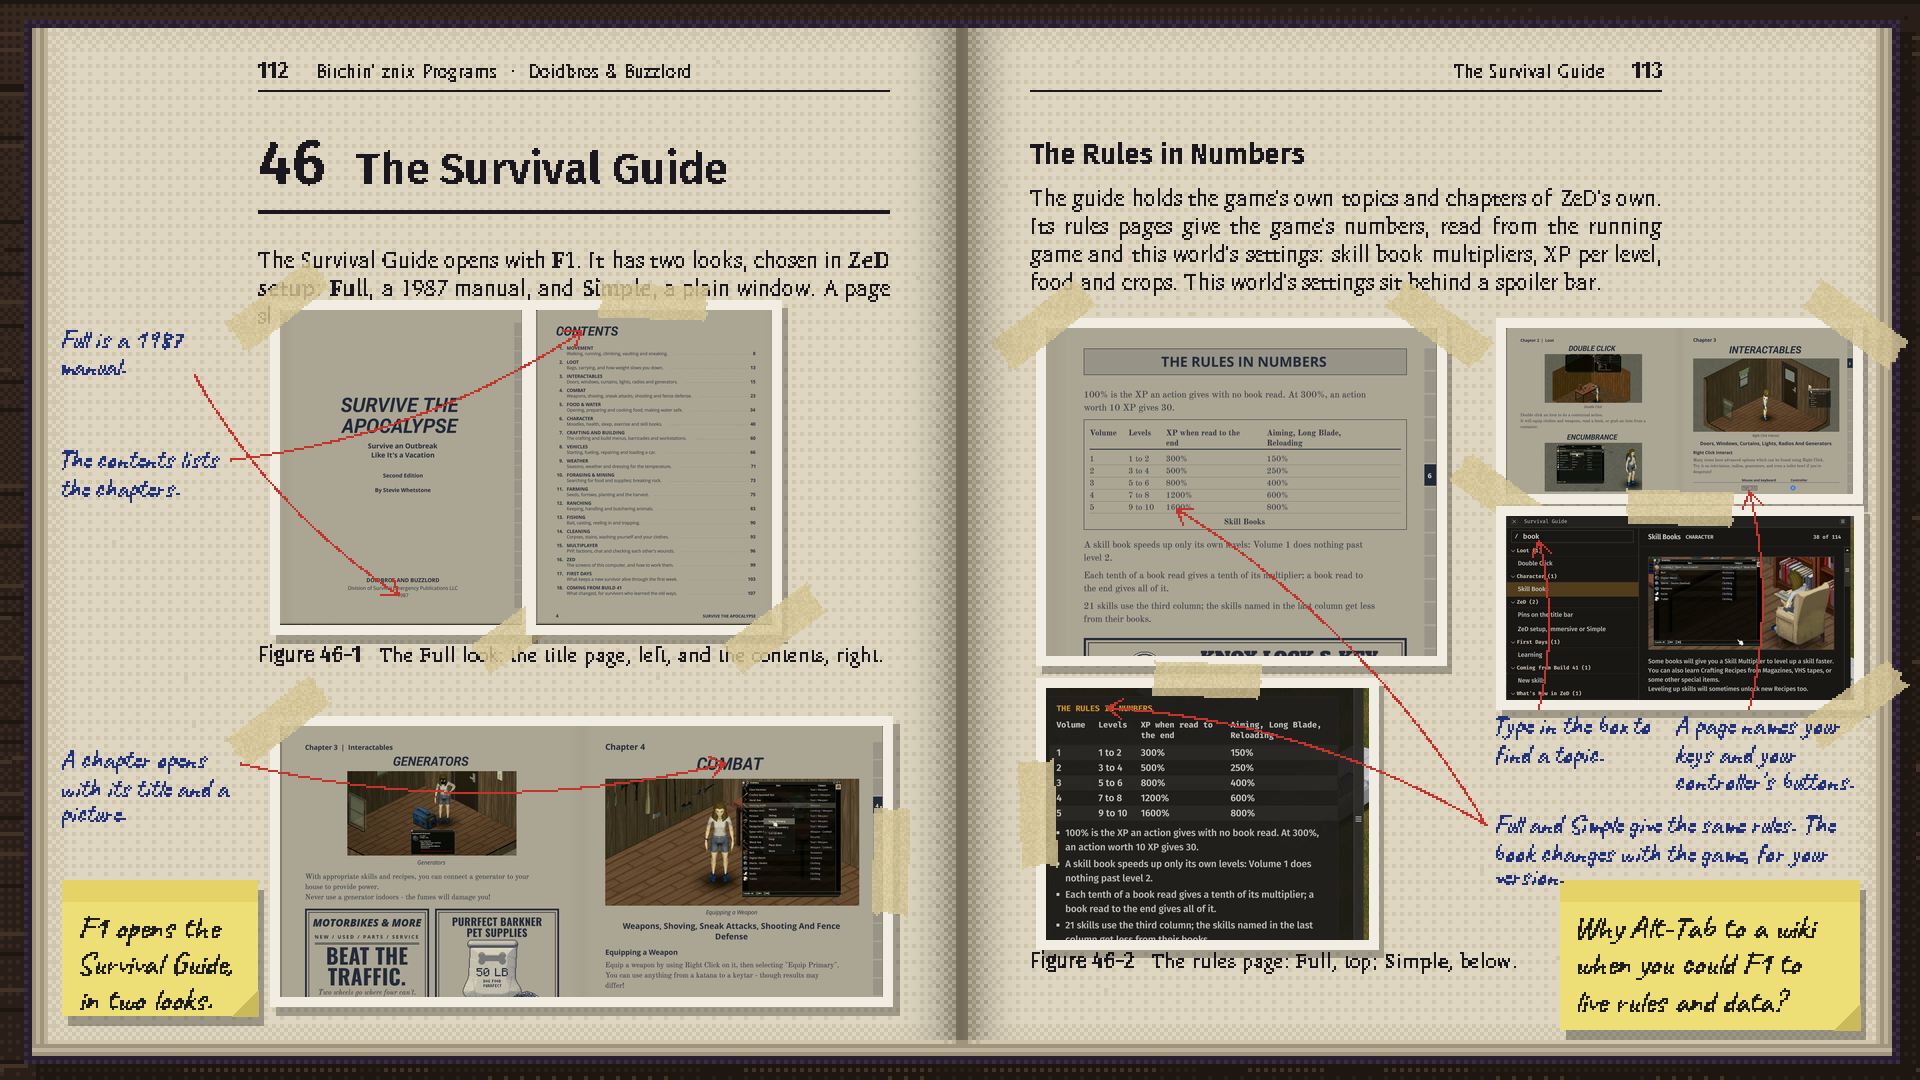
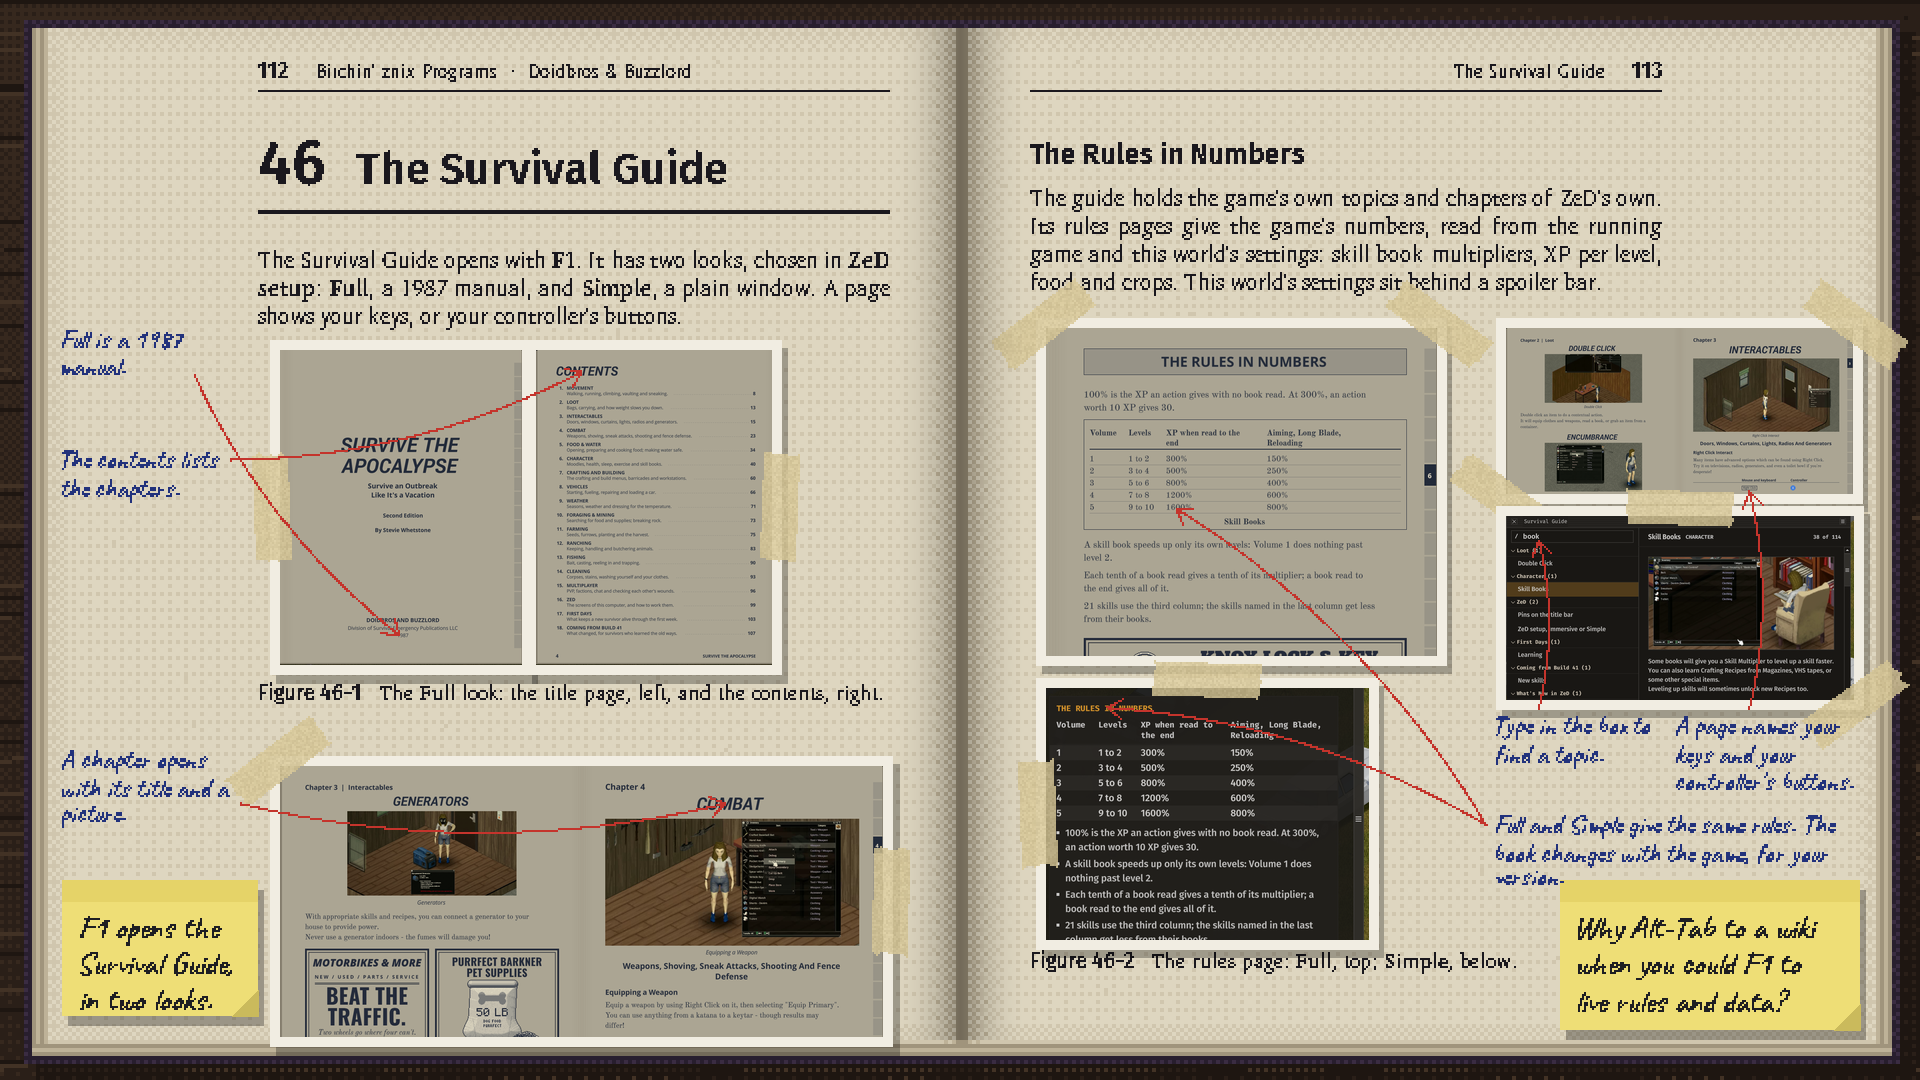
Gallery 46: the pictures moved off the opening paragraph and the tape off Figure 46-1's caption (director); punch list 128: the running head's middle dot

Changed region(s): [[0.125, 0.2444, 0.5, 0.9778], [0.125, 0.3667, 0.25, 0.5194], [0.375, 0.4278, 0.4375, 0.5194]]

diff --git a/ZeDUI/PUNCH_LIST.md b/ZeDUI/PUNCH_LIST.md
@@ -3130,3 +3130,9 @@ Items QA has confirmed in the game in full (their history stays in place above; 
     A saved Orange stays Orange: PZ's mod options file keeps every option once it's saved, so a player who left
     Orange alone can't be told from one who chose it, and nobody's colors change under them. Not a design change to
     any component, so no mockup; QA pictures the main menu, a window and a balloon in Teal at 4K and Deck.
+
+128. **The gallery book's running head uses a middle dot (QA, Nov 9 2026).** Every left page reads
+    "Bitchin' znix Programs · Doidbros & Buzzlord", against the never-"·" rule. The book is a printed prop, so a hyphen:
+    "Bitchin' znix Programs - Doidbros & Buzzlord". It's in every spread's "head" (spreads/*.json) and any default in
+    spread.py/title_spread.py. Change all at once, then re-render all 70 pictures with the next full gallery refresh,
+    not one page at a time.
